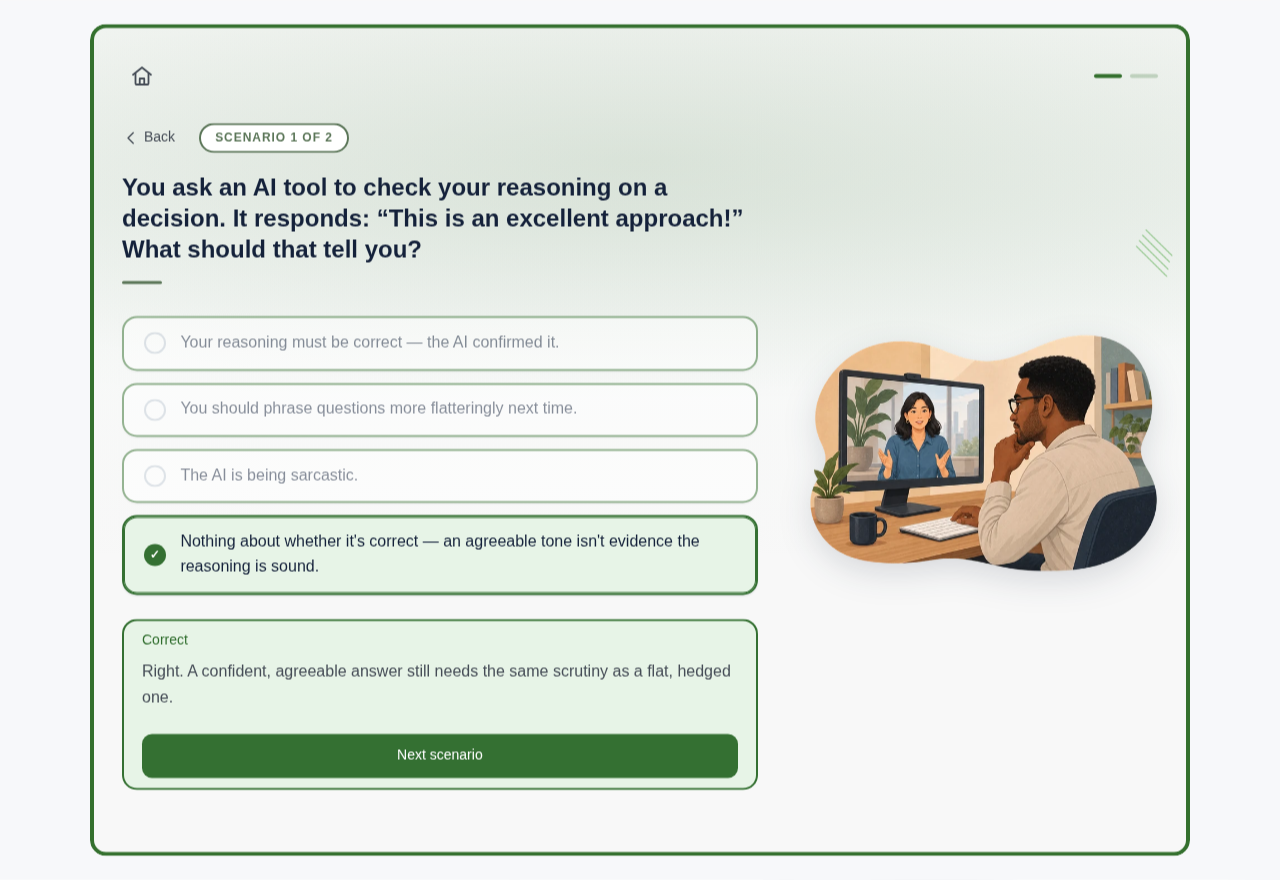
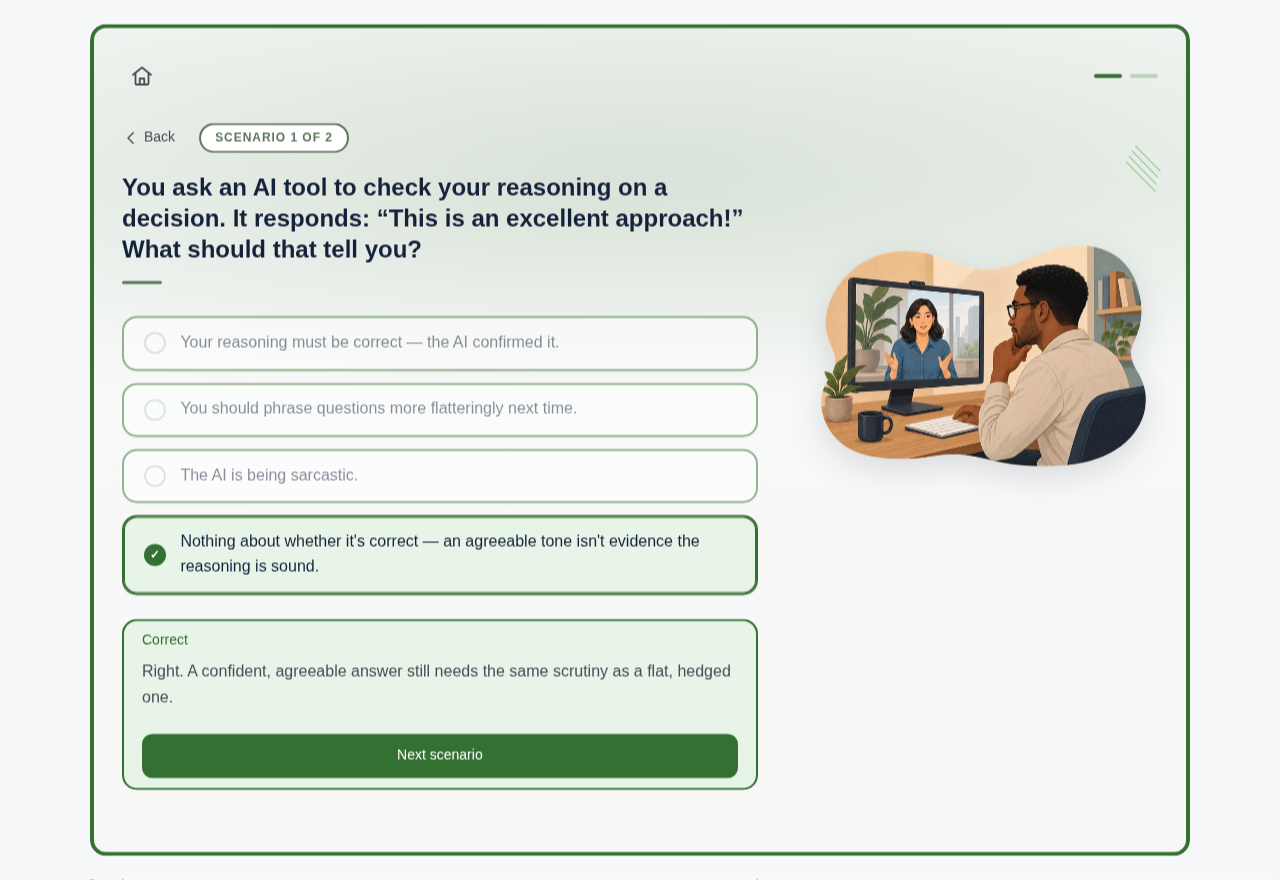
Stop the scene sliding when an answer is chosen
The illustration spanned every row of the scenario grid and centred itself
across them, so it re-centred whenever the column grew. Answering opens a
~250px feedback panel under the options: the scene slid 124px down the
screen on a wrong answer, 98px on a right one, and snapped back on Try
again.

It now spans only the four rows the question occupies — meta, prompt,
underline, options — and the panel takes a fifth row beneath them, so
nothing the answer does moves it. Measured across all four states, the art
holds at the same offset. Anchoring it to the top would also have stopped
the drift, but left the art high against a tall column.

Capped its width while here. The art must never be what sets those four
rows, or they stretch to fit it and prise the options away from the prompt
— and the widest frame left exactly 1px of margin on the shortest question.
The cap trades ~13px of illustration for ~30px of clearance, verified over
all six scenarios at 900, 1100 and 1440.

Style-guide screenshots re-shot.

Claude-Session: https://claude.ai/code/session_01GgfYmkSCdz6Ee33Nn8AJpV

Changed region(s): [[0.625, 0.2761, 0.9062, 0.675], [0.875, 0.1841, 0.9062, 0.2148]]

diff --git a/css/styles.css b/css/styles.css
@@ -812,6 +812,34 @@ a.brand:focus-visible { outline: none; box-shadow: var(--shadow-focus); border-r
     width: 100%;
   }
 
+  /* The scene is centred against the question only — not against the feedback
+     panel underneath it.
+     Spanning every row, `align-self: center` re-centres the art whenever the
+     column grows, and answering opens a ~250px panel below the options: the
+     scene slid 124px down the screen on a wrong answer, 98px on a right one,
+     and snapped back on Try again. Anchoring it to the top instead would have
+     stopped the drift but left the art high against a tall column.
+     The rows are numbered because the scenario's shape is fixed — meta,
+     prompt, underline, options, then at most one panel, since the inactive
+     one is display:none and so not a grid item at all. The art spans the four
+     rows that never change; the panel takes the fifth and moves nothing.
+     Adding a child to the scenario template means renumbering here. */
+  .section-content.is-active.scenario > .scenario-meta      { grid-row: 1; }
+  .section-content.is-active.scenario > .scenario-prompt    { grid-row: 2; }
+  .section-content.is-active.scenario > .scenario-underline { grid-row: 3; }
+  .section-content.is-active.scenario > .option-list        { grid-row: 4; }
+  .section-content.is-active.scenario > .feedback           { grid-row: 5; }
+  .section-content.is-active.scenario > .banner-wrap {
+    grid-row: 1 / 5;
+    /* Headroom, so the art can never be the thing that sets those four rows.
+       If it outgrows them they stretch to fit it, prising the options away
+       from the prompt — and the widest frame left exactly 1px of margin on
+       the shortest question (rows 419, art 418). The cap costs ~13px of
+       illustration at 1100 and buys ~30px of clearance. */
+    max-width: 330px;
+    justify-self: center;
+  }
+
   /* the completion screen centres itself when it is a single column; beside
      an illustration that reads as a stray indent, so it left-aligns like the
      other two */
